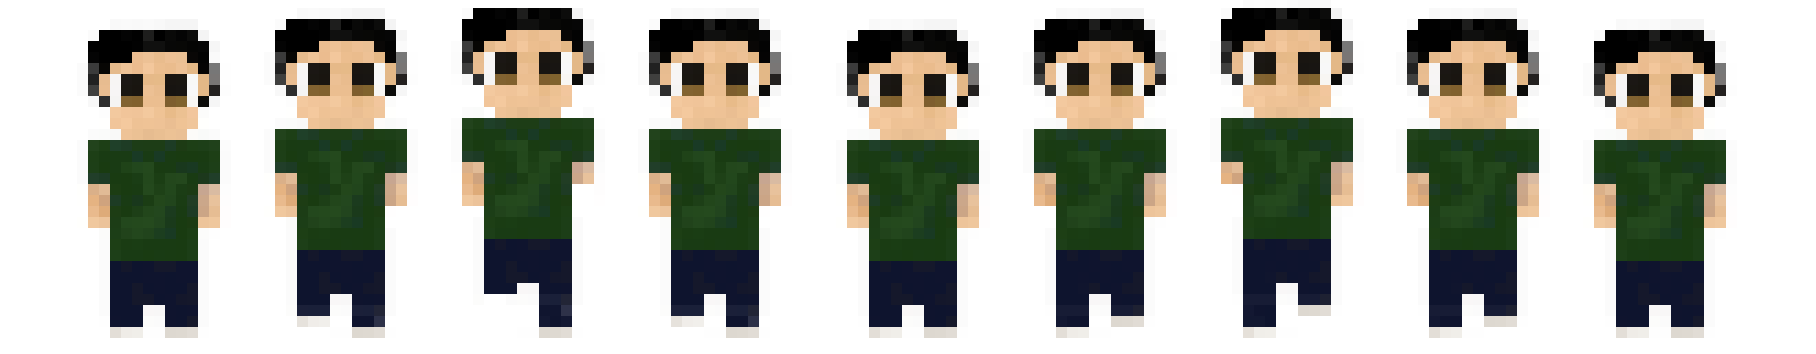
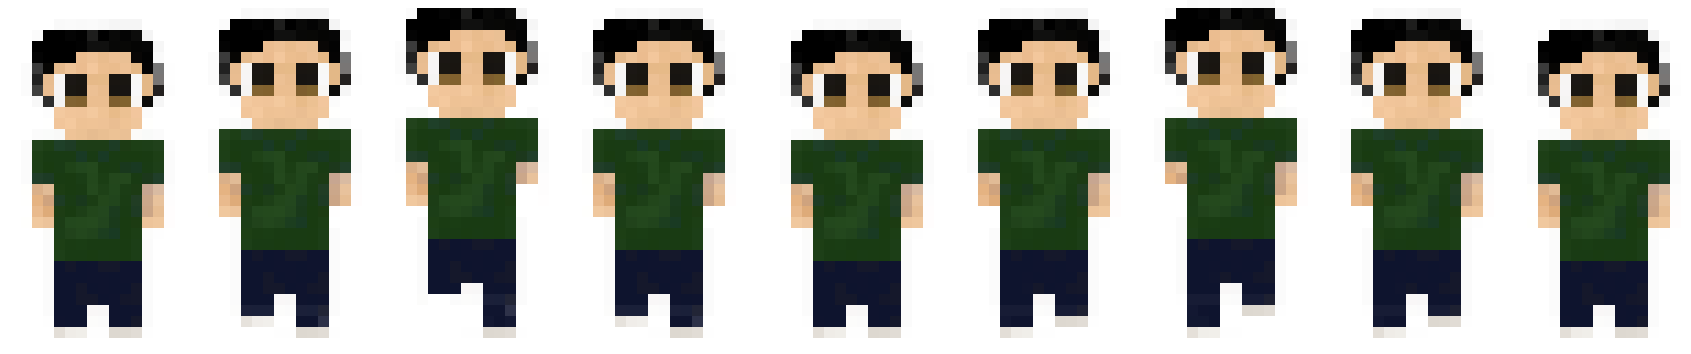
walking

diff --git a/css/walking.css b/css/walking.css
@@ -13,9 +13,9 @@ body{
 }
 
 @keyframes walk{
-    0%{background-position: 50px;
+    0%{background-position: 110px;
     }
-    100%{background-position: 1816px;
+    100%{background-position: 1696px;
     }
 
 }
